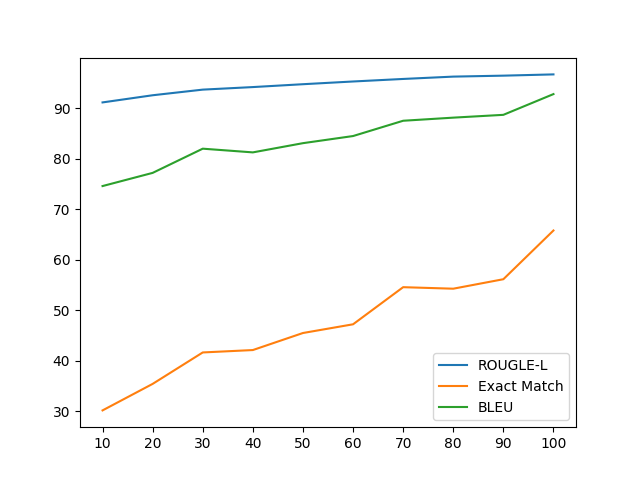
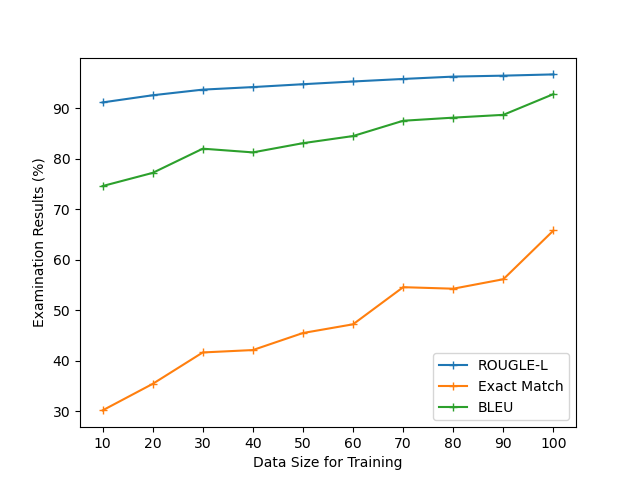
update

diff --git a/training_text.py b/training_text.py
@@ -559,27 +559,27 @@ def main():
 
     # for epoch in range(args.num_train_epochs):
     for epoch in trange(args.num_train_epochs, desc="train_epochs"):
-        model.train()
-        # for step, batch in enumerate(train_dataloader):
-        for step, batch in enumerate(tqdm(train_dataloader, desc="Training")):
-            outputs = model(**batch)
-            loss = outputs.loss
-            loss = loss / args.gradient_accumulation_steps
-            # print('training loss:', loss)
-            accelerator.backward(loss)
-            if step % args.gradient_accumulation_steps == 0 or step == len(train_dataloader) - 1:
-                optimizer.step()
-                lr_scheduler.step()
-                optimizer.zero_grad()
-                progress_bar.update(1)
-                completed_steps += 1
-
-            if completed_steps >= args.max_train_steps:
-                break
-
-        model_flag = '_lr_'+str(args.learning_rate)+'epoch_'+str(epoch)
-        store_model(accelerator, model, args.output_dir+model_flag, tokenizer)
-        # model.load_state_dict(torch.load('/content/seq2seq/output_dir/_lr_2e-05epoch_9/pytorch_model.bin'))
+        # model.train()
+        # # for step, batch in enumerate(train_dataloader):
+        # for step, batch in enumerate(tqdm(train_dataloader, desc="Training")):
+        #     outputs = model(**batch)
+        #     loss = outputs.loss
+        #     loss = loss / args.gradient_accumulation_steps
+        #     # print('training loss:', loss)
+        #     accelerator.backward(loss)
+        #     if step % args.gradient_accumulation_steps == 0 or step == len(train_dataloader) - 1:
+        #         optimizer.step()
+        #         lr_scheduler.step()
+        #         optimizer.zero_grad()
+        #         progress_bar.update(1)
+        #         completed_steps += 1
+        #
+        #     if completed_steps >= args.max_train_steps:
+        #         break
+        #
+        # model_flag = '_lr_'+str(args.learning_rate)+'epoch_'+str(epoch)
+        # store_model(accelerator, model, args.output_dir+model_flag, tokenizer)
+        model.load_state_dict(torch.load('/content/seq2seq/output_ptb/_lr_2e-05epoch_9/pytorch_model.bin'))
         '''evaluting after each epoch'''
         model.eval()
         if args.val_max_target_length is None:
@@ -668,11 +668,11 @@ def store_model(accele, model, output_dir, tokenizer):
 
 def all_match(targets, predictions):
     em_batch = [int(a == b) for a, b in zip(targets,predictions)]
-    print('Batch Size: ', len(em_batch))
-    for a,b in zip(targets,predictions):
-        if a != b:
-            print("Target: ",a)
-            print("Predictions: ", b)
+    # print('Batch Size: ', len(em_batch))
+    # for a,b in zip(targets,predictions):
+    #     if a != b:
+    #         print("Target: ",a)
+    #         print("Predictions: ", b)
     return em_batch.count(1),len(em_batch)
     # return {"exact_match": 100 * float(np.array_equal(targets, predictions))}
 

diff --git a/plotGraph.py b/plotGraph.py
@@ -3,18 +3,20 @@ import numpy as np
 
 
 def multi_plot(rl, em, bleu,interval):
-    plt.plot(interval, rl, label = 'ROUGLE-L')
-    plt.plot(interval, em, label = 'Exact Match')
-    plt.plot(interval, bleu, label = 'BLEU')
+    plt.plot(interval, rl,'+-', label = 'ROUGLE-L')
+    plt.plot(interval, em,'+-', label = 'Exact Match')
+    plt.plot(interval, bleu,'+-', label = 'BLEU')
 
     # plt.suptitle('Evaluation with different intervals', fontsize = 15)
     plt.xticks(np.arange(min(interval), max(interval)+1, 10.0))
     plt.legend()
+    plt.xlabel('Data Size for Training')
+    plt.ylabel('Examination Results (%)')
     # plt.show()
-    plt.savefig('vary_training_ptb1.png')
+    plt.savefig('vary_training_size.png')
 
 
-# training ptb with different interval
+# training ptb on T5-small with different interval
 # rl = [88.7157, 96.0398, 97.4281, 98.0455, 98.3347, 98.643, 99.046, 98.9691, 99.3007]
 # em = [0.0, 0.0, 0.0, 0.0, 0.0, 0.0, 0.0, 0.0, 0.0]
 # bleu = [80.4111, 91.7192, 94.5737, 95.9414, 96.5473, 97.2210, 98.0641, 97.8935, 98.6925]
@@ -26,16 +28,16 @@ def multi_plot(rl, em, bleu,interval):
 # interval = [50,100,150,200,250,300,350,400,500]
 
 # varing training size to evaluate MNLI
-# rl = [96.66,96.4118,96.2217,95.7589,95.2565,94.717,94.1502,93.6448,92.53,91.1125]
-# em = [65.75,56.10,54.225,54.525,47.175,45.45,42.075,41.6,35.375,30.125]
-# bleu = [92.76,88.6524,88.0968,87.4814,84.4530,83.0427,81.2172,81.9514,77.1580,74.5487]
-# training_size = [100,90,80,70,60,50,40,30,20,10]
+rl = [96.66,96.4118,96.2217,95.7589,95.2565,94.717,94.1502,93.6448,92.53,91.1125]
+em = [65.75,56.10,54.225,54.525,47.175,45.45,42.075,41.6,35.375,30.125]
+bleu = [92.76,88.6524,88.0968,87.4814,84.4530,83.0427,81.2172,81.9514,77.1580,74.5487]
+training_size = [100,90,80,70,60,50,40,30,20,10]
 
 # varing training size to evaluate PTB
-rl = [96.634,97.9235,98.454,98.8243,99.0066,99.2138,99.2944,99.4107,99.5621,99.6295]
-em = [55.3576,69.6889,76.1765,82.0260,84.84445,88.2743,89.3911,91.5979,93.5123,94.6290]
-bleu = [92.1849,95.2080,96.3883,97.4421,97.8715,98.3824,98.5818,98.8738,99.1175,99.3118]
-training_size = [10,20,30,40,50,60,70,80,90,100]
+# rl = [96.634,97.9235,98.454,98.8243,99.0066,99.2138,99.2944,99.4107,99.5621,99.6295]
+# em = [55.3576,69.6889,76.1765,82.0260,84.84445,88.2743,89.3911,91.5979,93.5123,94.6290]
+# bleu = [92.1849,95.2080,96.3883,97.4421,97.8715,98.3824,98.5818,98.8738,99.1175,99.3118]
+# training_size = [10,20,30,40,50,60,70,80,90,100]
 
 multi_plot(rl,em,bleu,training_size)
 
